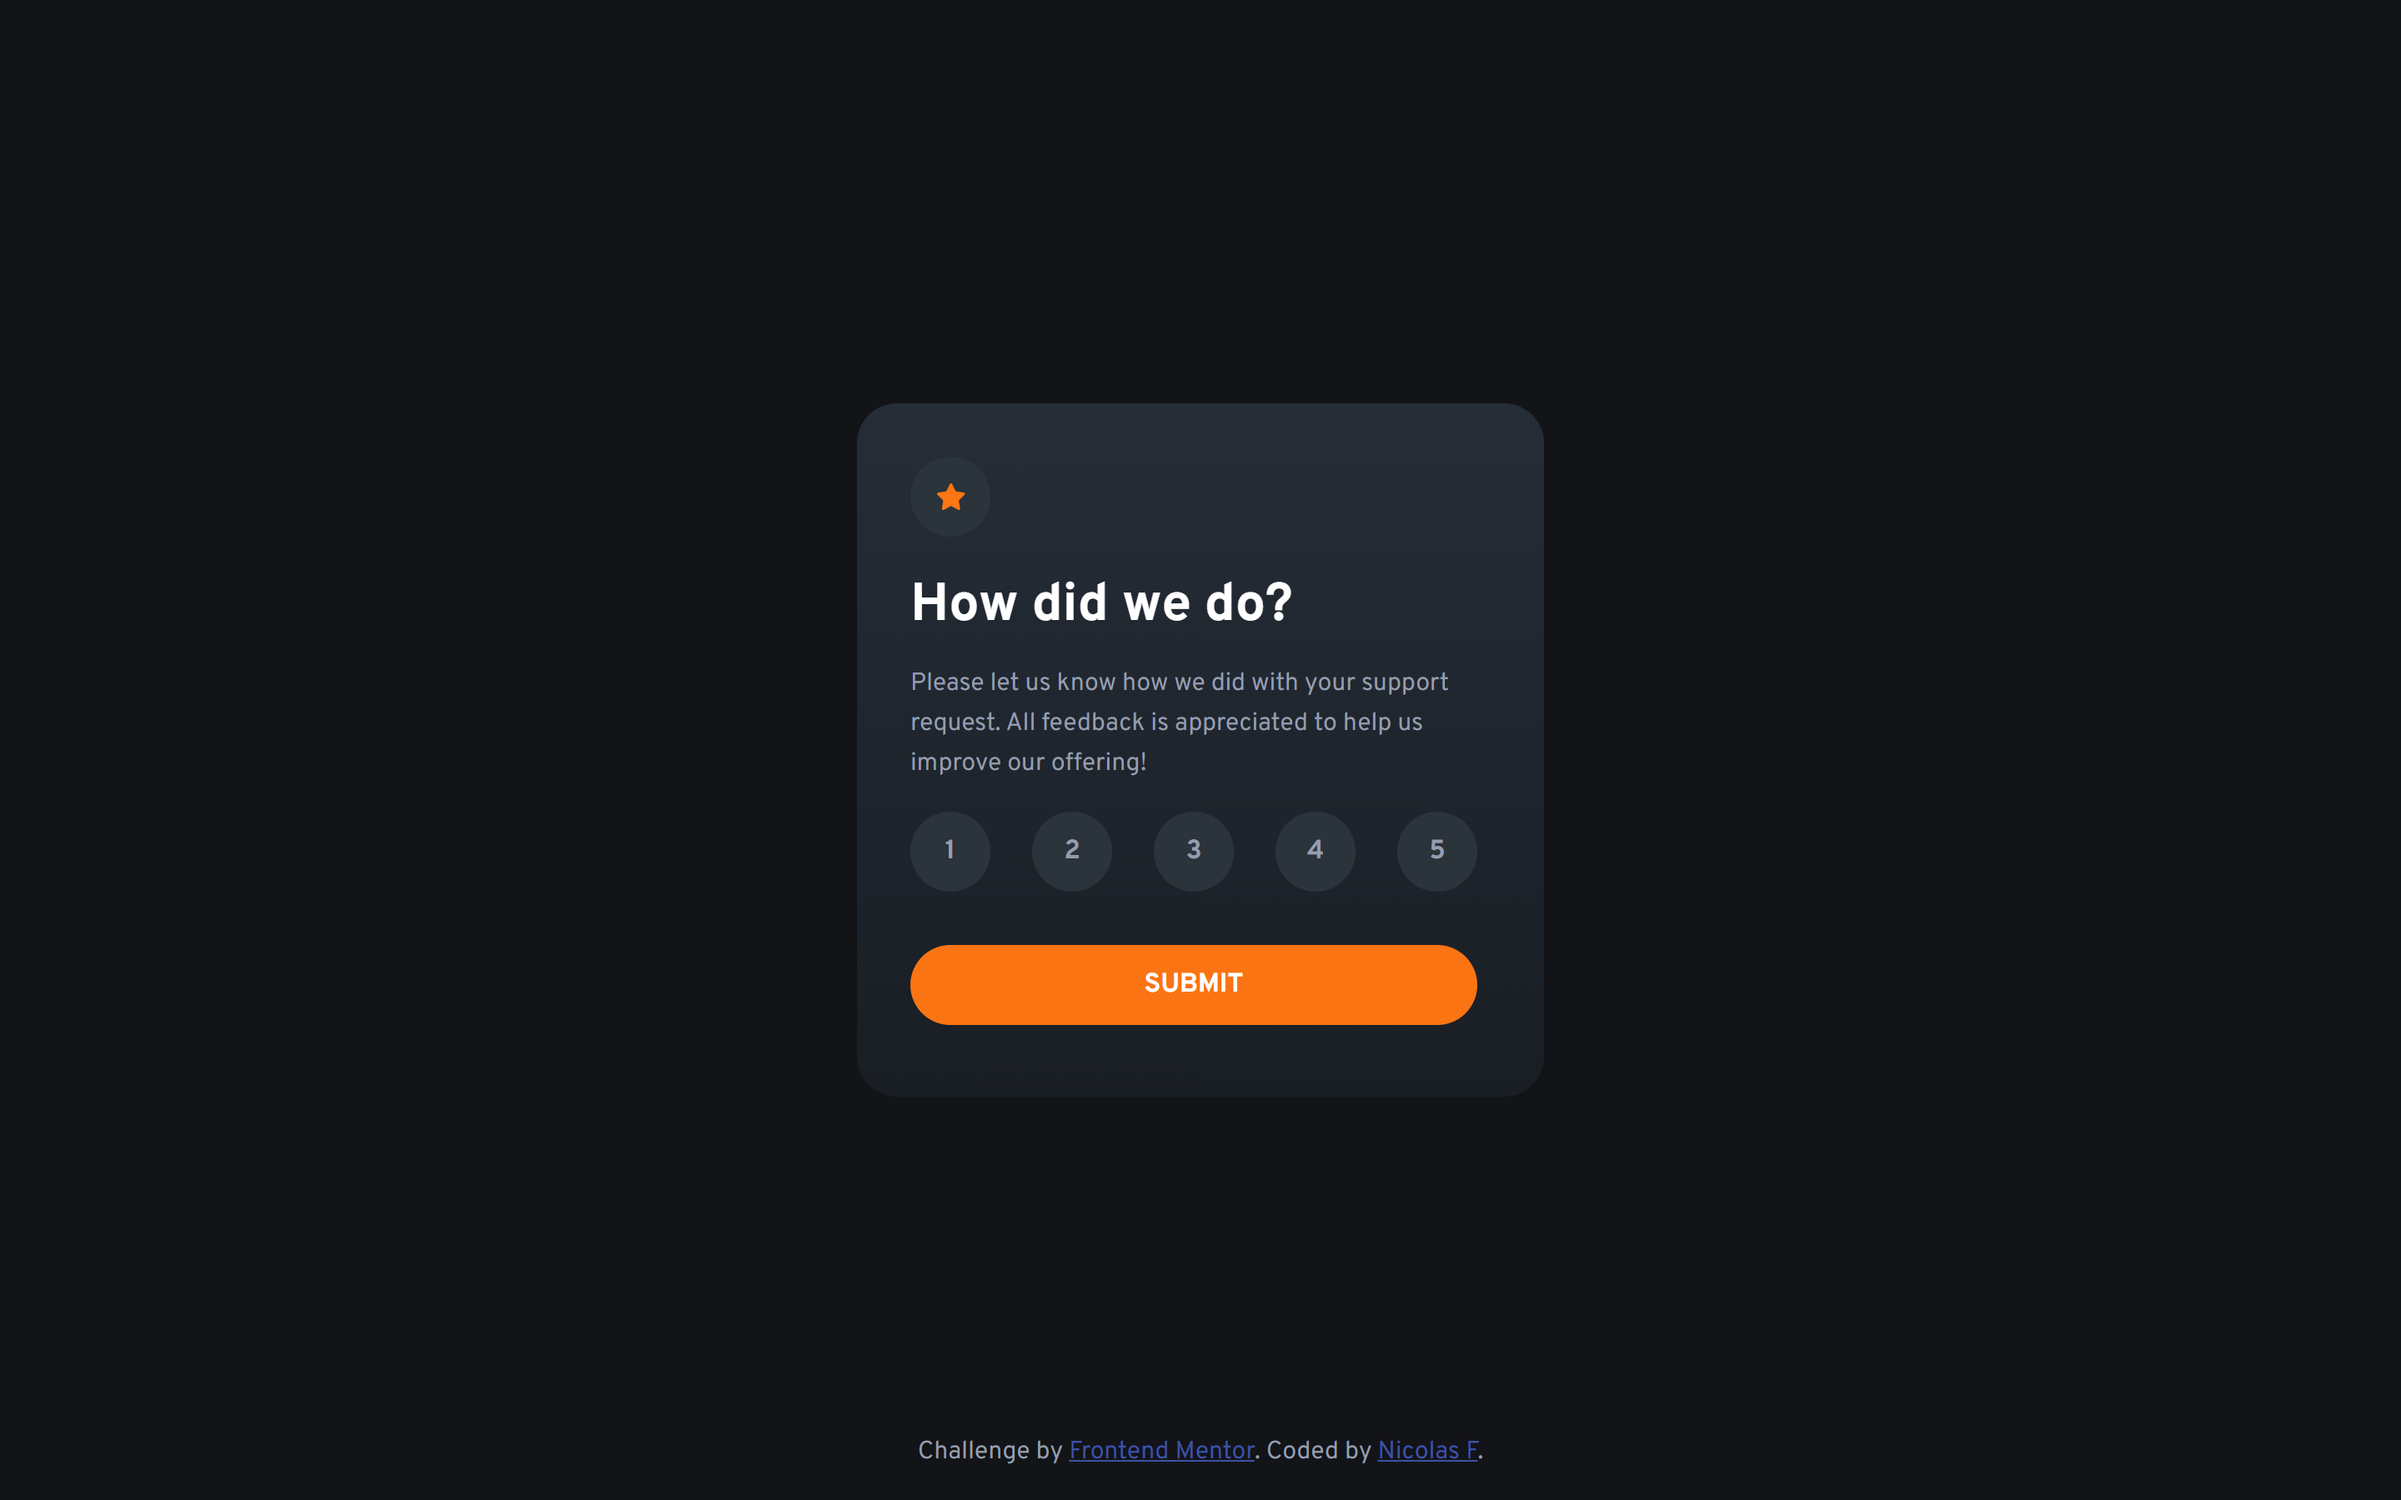
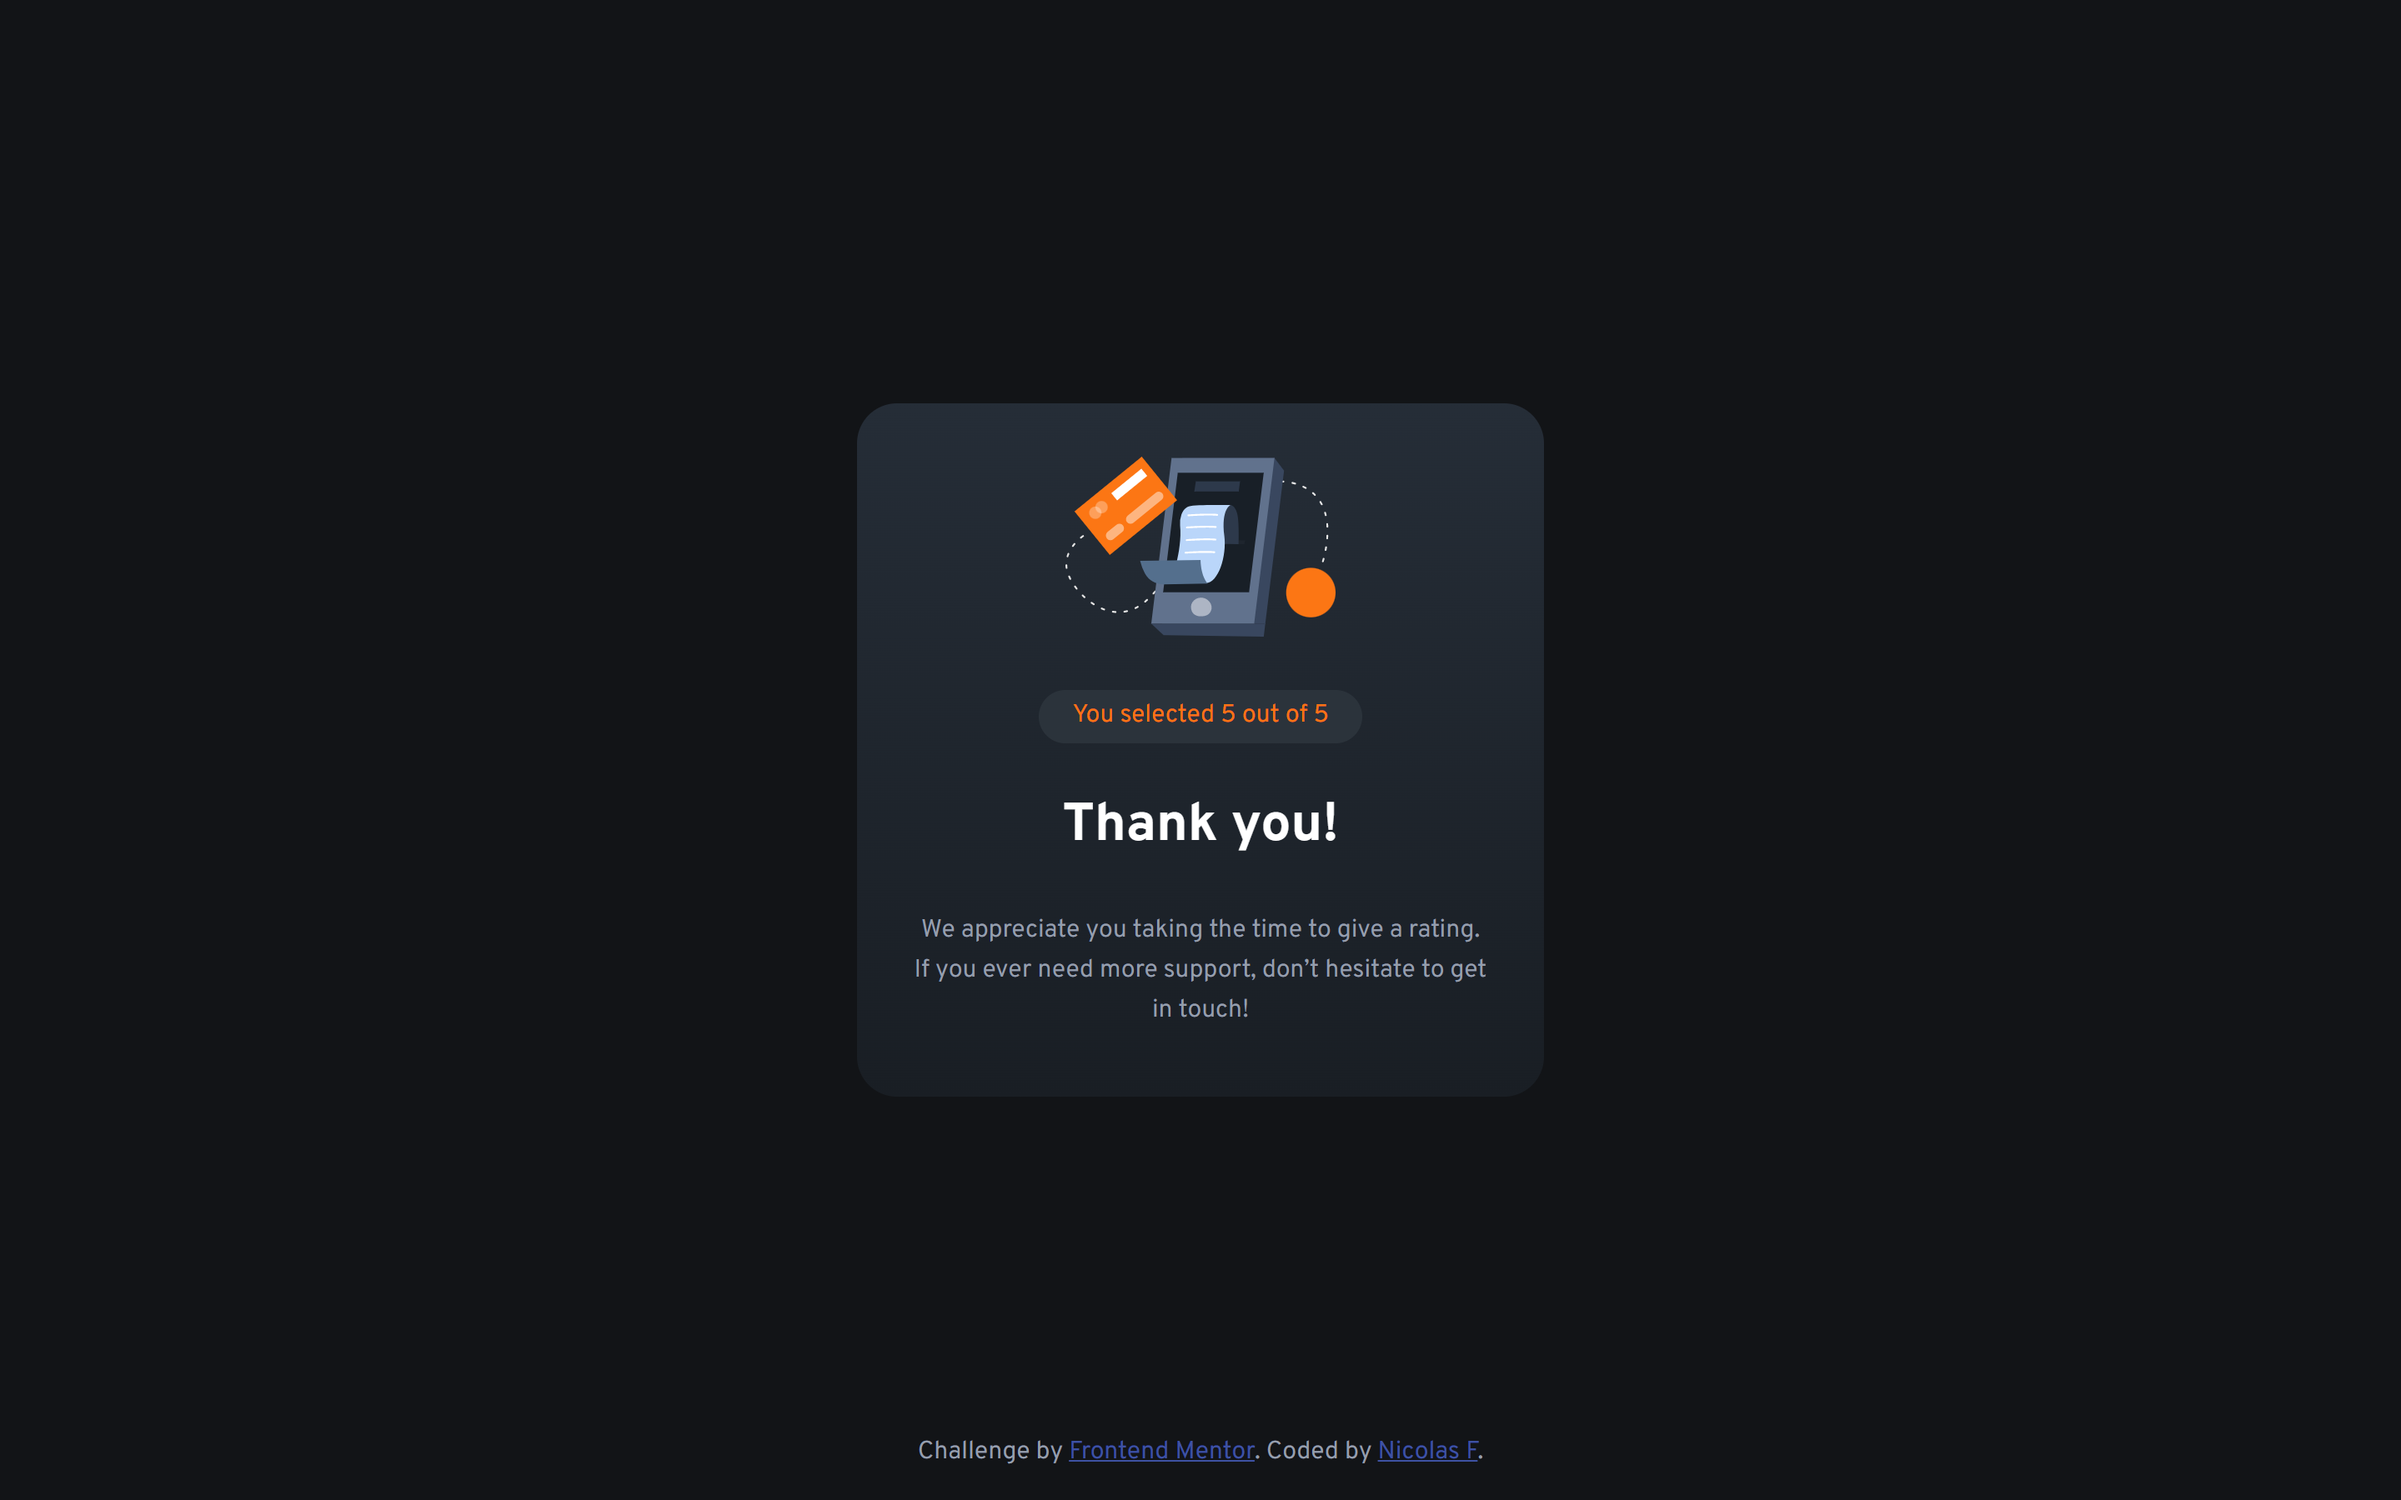
Folder structure and final README

Changed region(s): [[0.375, 0.28, 0.5938, 0.56], [0.375, 0.5911, 0.625, 0.6844], [0.375, 0.3111, 0.4062, 0.3422]]

diff --git a/README.md b/README.md
@@ -1,94 +1,84 @@
-# Frontend Mentor - Interactive rating component
+# Frontend Mentor - Four card feature section solution
 
-![Design preview for the Interactive rating component coding challenge](./design/desktop-preview.jpg)
+This is a solution to the [Four card feature section challenge on Frontend Mentor](https://www.frontendmentor.io/challenges/four-card-feature-section-weK1eFYK). Frontend Mentor challenges help you improve your coding skills by building realistic projects.
 
-## Welcome! 👋
+## Table of contents
 
-Thanks for checking out this front-end coding challenge.
+- [Overview](#overview)
+  - [The challenge](#the-challenge)
+  - [Screenshot](#screenshot)
+  - [Links](#links)
+- [My process](#my-process)
+  - [Built with](#built-with)
+  - [What I learned](#what-i-learned)
+  - [Continued development](#continued-development)
+  - [Useful resources](#useful-resources)
+- [Author](#author)
+- [Acknowledgments](#acknowledgments)
 
-[Frontend Mentor](https://www.frontendmentor.io) challenges help you improve your coding skills by building realistic projects.
+**Note: Delete this note and update the table of contents based on what sections you keep.**
 
-**To do this challenge, you need a basic understanding of HTML, CSS and JavaScript.**
+## Overview
 
-## The challenge
+### The challenge
 
-Your challenge is to build out this interactive rating component and get it looking as close to the design as possible.
+Users should be able to:
 
-You can use any tools you like to help you complete the challenge. So if you've got something you'd like to practice, feel free to give it a go.
+- View the optimal layout for the site depending on their device's screen size
+- Select a rating and display it on screen after pressing a submit button
 
-Your users should be able to:
+### Screenshots
 
-- View the optimal layout for the app depending on their device's screen size
-- See hover states for all interactive elements on the page
-- Select and submit a number rating
-- See the "Thank you" card state after submitting a rating
+#### Desktop
 
-Want some support on the challenge? [Join our Slack community](https://www.frontendmentor.io/slack) and ask questions in the **#help** channel.
+![](./images/desktop_view.png)
+![](./images/desktop_view_after.png)
 
-## Where to find everything
+#### Mobile
 
-Your task is to build out the project to the designs inside the `/design` folder. You will find both a mobile and a desktop version of the design. 
+![](./images/mobile_view.png)
+![](./images//mobile_view_after.png)
 
-The designs are in JPG static format. Using JPGs will mean that you'll need to use your best judgment for styles such as `font-size`, `padding` and `margin`. 
+### Links
 
-If you would like the design files (we provide Sketch & Figma versions) to inspect the design in more detail, you can [subscribe as a PRO member](https://www.frontendmentor.io/pro).
+- Solution URL: [Code](https://github.com/nicolasfig/interactive-rating-component)
+- Live Site URL: [Live site](https://nicolasfig.github.io/interactive-rating-component/)
 
-You will find all the required assets in the `/images` folder. The assets are already optimized.
+## My process
 
-There is also a `style-guide.md` file containing the information you'll need, such as color palette and fonts.
+### Built with
 
-## Building your project
+- Semantic HTML5 markup
+- CSS custom properties
+- Flexbox
+- Vanilla Javascript
 
-Feel free to use any workflow that you feel comfortable with. Below is a suggested process, but do not feel like you need to follow these steps:
+### What I learned
 
-1. Initialize your project as a public repository on [GitHub](https://github.com/). Creating a repo will make it easier to share your code with the community if you need help. If you're not sure how to do this, [have a read-through of this Try Git resource](https://try.github.io/).
-2. Configure your repository to publish your code to a web address. This will also be useful if you need some help during a challenge as you can share the URL for your project with your repo URL. There are a number of ways to do this, and we provide some recommendations below.
-3. Look through the designs to start planning out how you'll tackle the project. This step is crucial to help you think ahead for CSS classes to create reusable styles.
-4. Before adding any styles, structure your content with HTML. Writing your HTML first can help focus your attention on creating well-structured content.
-5. Write out the base styles for your project, including general content styles, such as `font-family` and `font-size`.
-6. Start adding styles to the top of the page and work down. Only move on to the next section once you're happy you've completed the area you're working on.
+How to add interactivity to the html, basic DOM manipulation, how to add and remove classes using javascript and more flexbox
 
-## Deploying your project
+```css
+.submitted-form {
+  display: none;
+  justify-content: center;
+  align-items: center;
+  flex-direction: column;
+}
+```
 
-As mentioned above, there are many ways to host your project for free. Our recommend hosts are:
+```javascript
+scores.forEach((score) => {
+  score.addEventListener("click", () => {
+    final_score.innerHTML = score.innerHTML;
+  });
+});
+```
 
-- [GitHub Pages](https://pages.github.com/)
-- [Vercel](https://vercel.com/)
-- [Netlify](https://www.netlify.com/)
+### Useful resources
 
-You can host your site using one of these solutions or any of our other trusted providers. [Read more about our recommended and trusted hosts](https://medium.com/frontend-mentor/frontend-mentor-trusted-hosting-providers-bf000dfebe).
+- [Flexbox Malven](https://flexbox.malven.co/) - Useful flexbox reference as always
+- [MDN](https://developer.mozilla.org/en-US/) - MDN the best documentation
 
-## Create a custom `README.md`
+## Author
 
-We strongly recommend overwriting this `README.md` with a custom one. We've provided a template inside the [`README-template.md`](./README-template.md) file in this starter code.
-
-The template provides a guide for what to add. A custom `README` will help you explain your project and reflect on your learnings. Please feel free to edit our template as much as you like.
-
-Once you've added your information to the template, delete this file and rename the `README-template.md` file to `README.md`. That will make it show up as your repository's README file.
-
-## Submitting your solution
-
-Submit your solution on the platform for the rest of the community to see. Follow our ["Complete guide to submitting solutions"](https://medium.com/frontend-mentor/a-complete-guide-to-submitting-solutions-on-frontend-mentor-ac6384162248) for tips on how to do this.
-
-Remember, if you're looking for feedback on your solution, be sure to ask questions when submitting it. The more specific and detailed you are with your questions, the higher the chance you'll get valuable feedback from the community.
-
-## Sharing your solution
-
-There are multiple places you can share your solution:
-
-1. Share your solution page in the **#finished-projects** channel of the [Slack community](https://www.frontendmentor.io/slack). 
-2. Tweet [@frontendmentor](https://twitter.com/frontendmentor) and mention **@frontendmentor**, including the repo and live URLs in the tweet. We'd love to take a look at what you've built and help share it around.
-3. Share your solution on other social channels like LinkedIn.
-4. Blog about your experience building your project. Writing about your workflow, technical choices, and talking through your code is a brilliant way to reinforce what you've learned. Great platforms to write on are [dev.to](https://dev.to/), [Hashnode](https://hashnode.com/), and [CodeNewbie](https://community.codenewbie.org/).
-
-We provide templates to help you share your solution once you've submitted it on the platform. Please do edit them and include specific questions when you're looking for feedback. 
-
-The more specific you are with your questions the more likely it is that another member of the community will give you feedback.
-
-## Got feedback for us?
-
-We love receiving feedback! We're always looking to improve our challenges and our platform. So if you have anything you'd like to mention, please email hi[at]frontendmentor[dot]io.
-
-This challenge is completely free. Please share it with anyone who will find it useful for practice.
-
-**Have fun building!** 🚀
+- Frontend Mentor - [@nicolasfig](https://www.frontendmentor.io/profile/nicolasfig)
